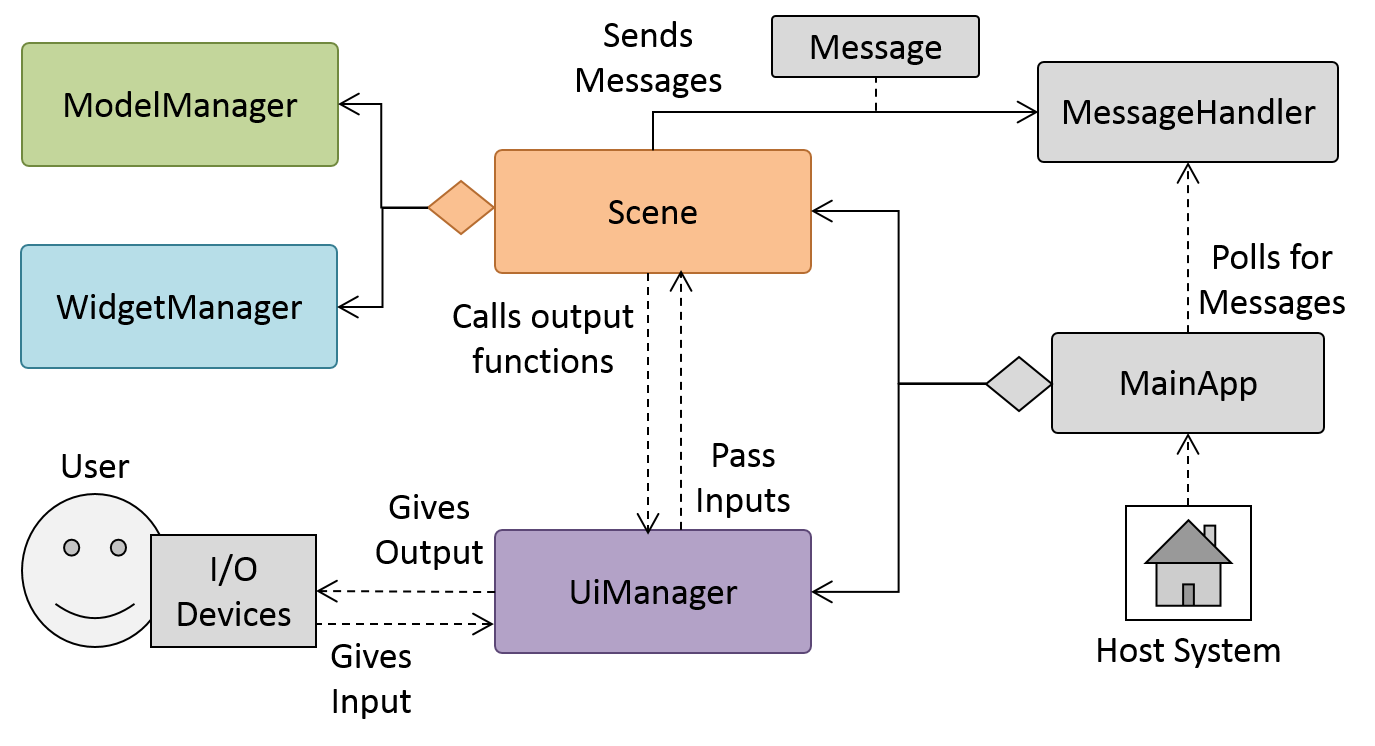
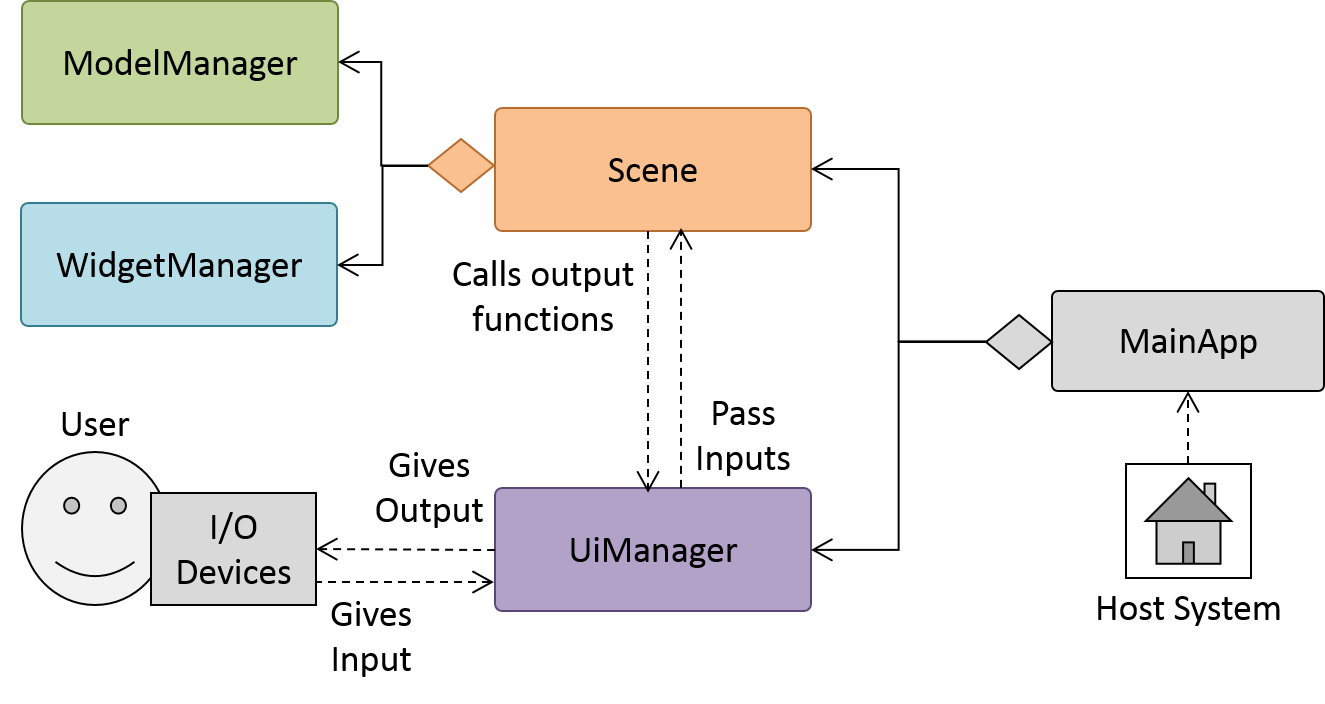
Update guide with new Message system

diff --git a/docs/guide.md b/docs/guide.md
@@ -64,7 +64,7 @@ This section describes how the code base is organized.
 
 The `MainApp` hosts all the other components, and tracks application-wide data such as frames per second (FPS). It contains methods to initialize (`init()`), run (`run()`) and de-initialize (`deinit()`) the whole program. It also contains methods that allow `Message`s to affect its underlying data.
 
-Independent of `MainApp` and indeed the rest of the program are the `MessageHandler` and `Settings`. `MessageHandler` is a singleton class which collects `Message`s posted to it by any part of the main program, and lets a `MainApp` instance clear the `Message`s.
+Independent of `MainApp` and indeed the rest of the program are the `Message` publisher-subscriber system, and the `Settings` system. Any component can publish `Message`s of any type, and subscribe to any type of `Message` by providing a callback function.
 
 `Settings` is another singleton class that is told by `MainApp` on initialization to load values from a settings file (default: `data/settings.ini`). Note that setting names and values are case-sensitive. `Settings` may then be accessed from anywhere else in the program to access these values. On program deinitialization, `MainApp` tells `Settings` to save those same values to the settings file.
 
@@ -79,11 +79,9 @@ When the whole program starts, an instance of `MainApp` is created. `init()` is 
 		1. Keyboard input is interpreted immediately.
 		2. The `WidgetManager` is checked to see if the the mouse triggers any `Widget`s.
 		3. If the mouse did not, the `ModelManager` is checked to see if the the mouse triggers any model events, such as clicking an entity.
-	3. Any input processing may involve posting `Message`s to the `MessageHandler` (although the Model typically does not). After all the input has been processed, `MainApp` clears all the `Message`s from the `MessageHandler`.
-2. Update
-	1. `MainApp` tells `Scene` to update itself by 1 tick. `Scene` may post more `Message`s.
-	2. `MainApp` clears `Message`s.
-3. Draw
+2. If there were any `SceneTransitMessage`s posted, `MainApp` transits to the new `Scene` now.
+3. `MainApp` tells the current `Scene` to update itself by 1 tick.
+4. Draw
 	1. `MainApp` tells `Scene` to draw, passing it a reference to the `UiManager`.
 	2. `Scene` sets up `UiManager` and passes it to the `ModelManager` then `WidgetManager` (so that the `Widget`s are drawn on top of the model). The `WidgetManager` may also read from the model state to determine what to draw (e.g. to print a statistic).
 
